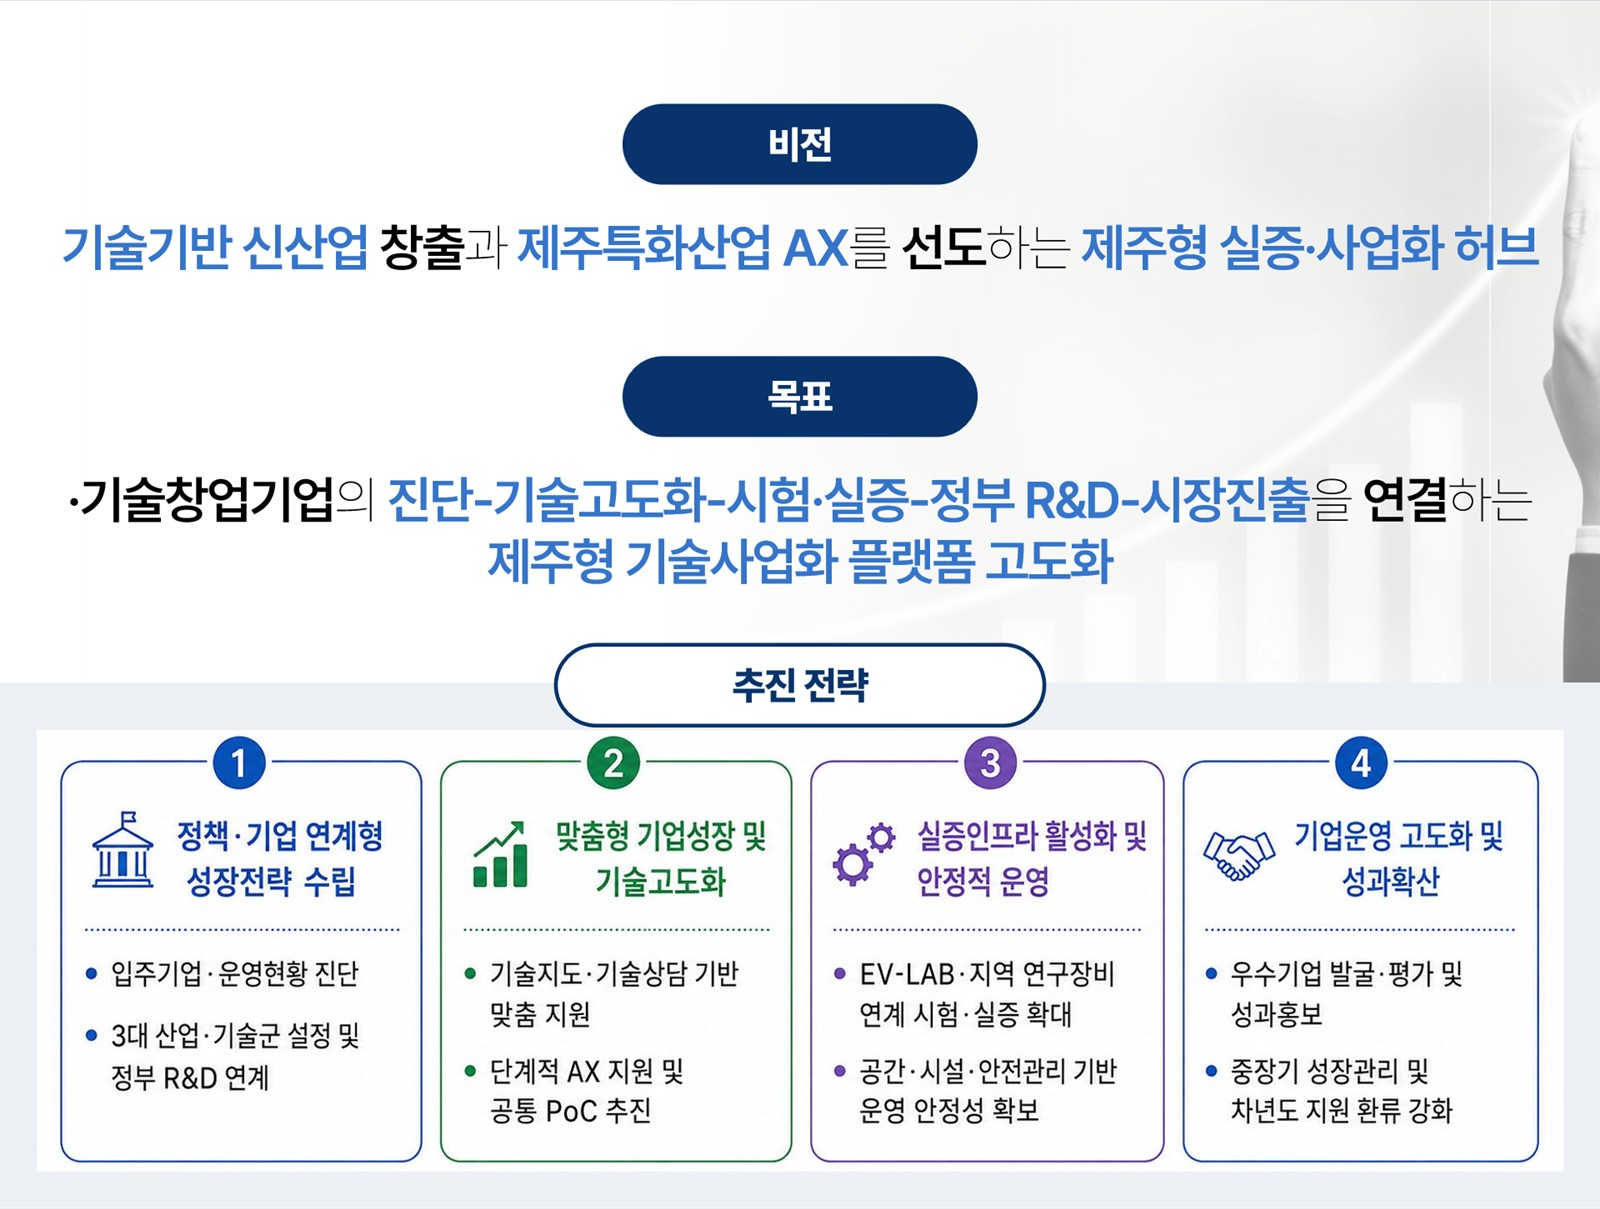
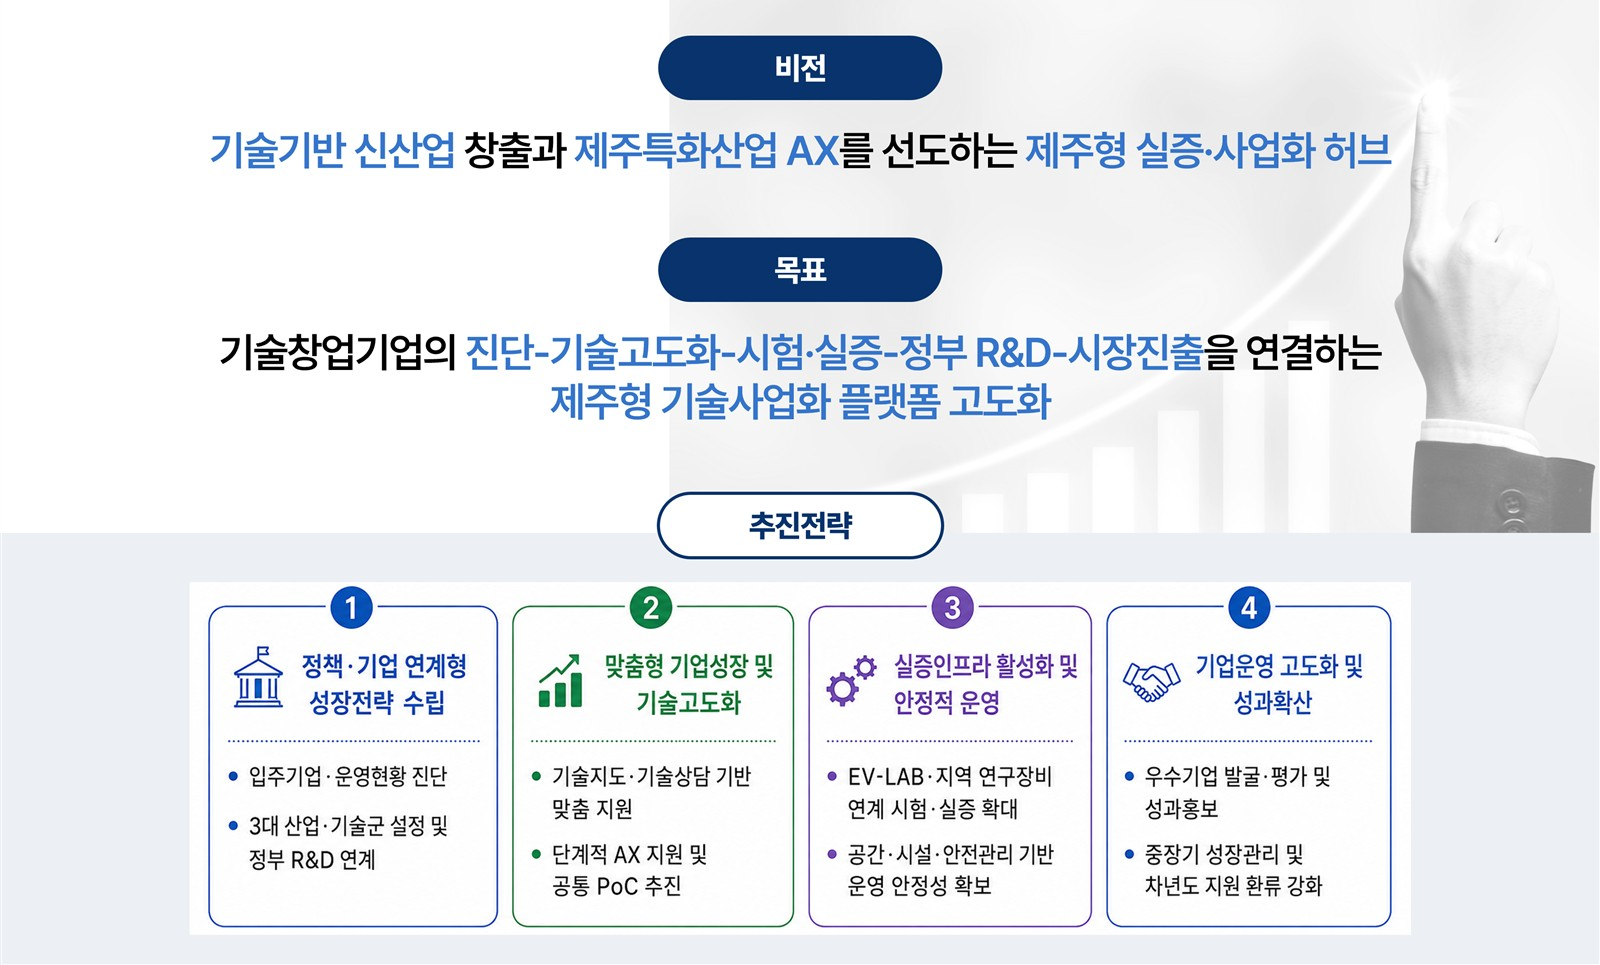
소식: 카드 높이 통일, 상세 사진 전체 표시, 날짜순 카드/목록 교차 배치, Route330 대표도

Changed region(s): [[0.0312, 0.0311, 1.0, 0.9637], [0.0312, 0.6218, 0.0625, 0.6528]]

diff --git a/src/styles/global.css b/src/styles/global.css
@@ -127,15 +127,15 @@ a.card:hover{transform:translateY(-4px);border-color:rgba(56,217,180,.45)}
 .pubs .ack a:hover{text-decoration:underline}
 
 /* 소식 */
-.news{display:block;border:1px solid var(--line);border-radius:var(--r);overflow:hidden;background:var(--surface);transition:border-color .2s}
+.news{display:flex;flex-direction:column;height:100%;border:1px solid var(--line);border-radius:var(--r);overflow:hidden;background:var(--surface);transition:border-color .2s}
 .news:hover{border-color:rgba(58,160,255,.5)}
-.news .ph{aspect-ratio:16/9;background:var(--bg2)}
-.news .ph img{width:100%;height:100%;object-fit:cover}
+.news .ph{position:relative;flex:none;aspect-ratio:16/9;overflow:hidden;background:var(--bg2)}
+.news .ph img{position:absolute;inset:0;width:100%;height:100%;object-fit:cover}
 .news .ph.contain{background:#fff}
 .news .ph.contain img{object-fit:contain}
-.news .body{padding:18px 20px}
+.news .body{padding:18px 20px;flex:1}
 .news .cat{font-size:12.5px;font-weight:700;color:var(--accent)}
-.news h3{margin:6px 0;font-size:16.5px;line-height:1.45}
+.news h3{margin:6px 0;font-size:16.5px;line-height:1.45;min-height:2.9em}
 .news time{font-size:13px;color:var(--text3)}
 
 /* 문의 띠 */
